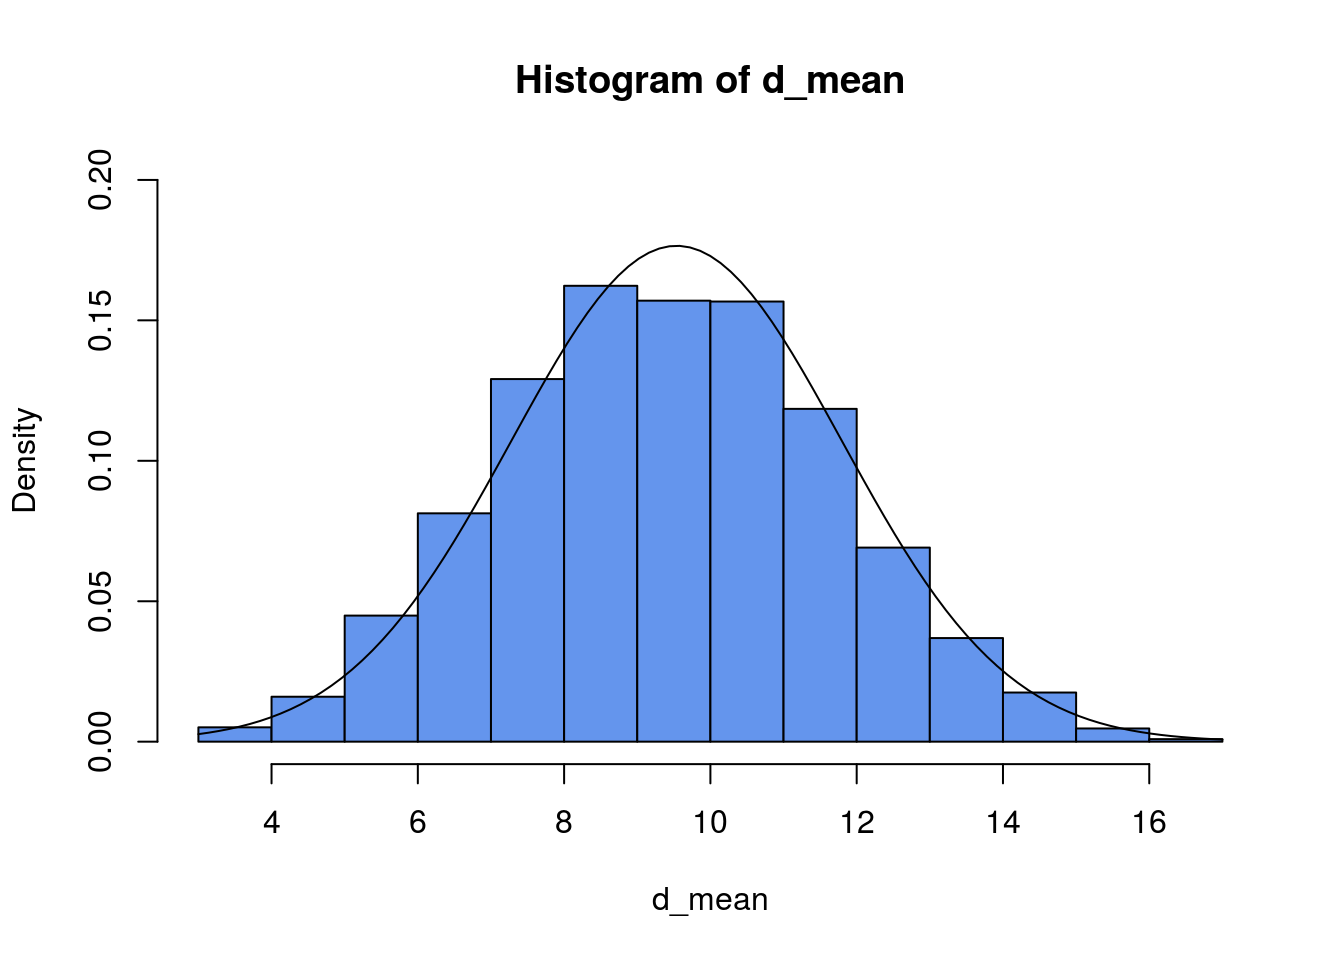
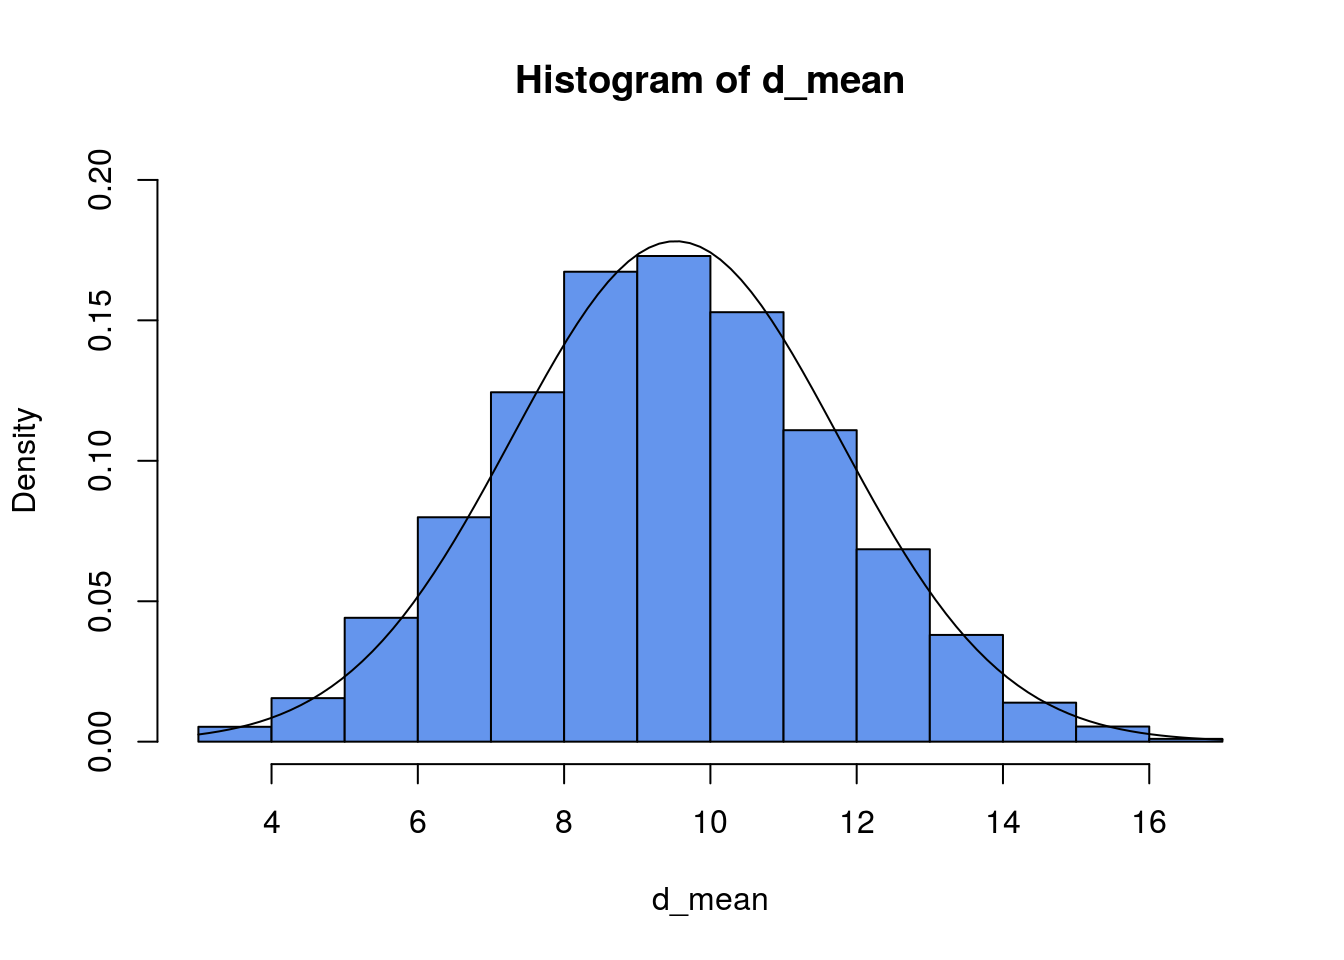
Go!

diff --git a/d_muestral.html b/d_muestral.html
@@ -334,16 +334,16 @@ for (i in 1:30){
   d_mean[i] &lt;- mean(sample(N,size = 4,replace = TRUE))
 }
 print(d_mean)</code></pre>
-<pre><code>##  [1]  6.50  9.25  5.25  5.75  6.25  9.00  8.25 11.00  6.00 13.00 13.50
-## [12]  7.00 11.00  8.50  7.25  5.75 11.00  9.25  9.50  9.75 13.75  9.75
-## [23]  6.00  8.00  6.75  6.50  9.50  9.75 11.75 12.00</code></pre>
+<pre><code>##  [1] 12.00  3.50  5.25  7.00  8.75 11.75 14.00  9.75  9.75 10.00 10.25
+## [12]  6.25 13.25  8.25  5.25 12.00  9.25 14.75 12.25 11.75 13.75 10.00
+## [23]  9.75 11.00  9.75 11.25  6.00 11.00  7.25 10.00</code></pre>
 </div>
 <div id="calculamos-las-medias-de-todas-esas-muestras-y-tratamos-de-ver-graficamente-mediante-un-histograma-al-menos-si-hay-acercamiento-a-normalidad." class="section level4">
 <h4>3) Calculamos las medias de todas esas muestras y tratamos de ver gráficamente mediante un histograma al menos si hay acercamiento a Normalidad.</h4>
 <pre class="r"><code>mean(d_mean)</code></pre>
-<pre><code>## [1] 8.883333</code></pre>
+<pre><code>## [1] 9.825</code></pre>
 <pre class="r"><code>sd(d_mean)</code></pre>
-<pre><code>## [1] 2.466791</code></pre>
+<pre><code>## [1] 2.78245</code></pre>
 <pre class="r"><code>hist(d_mean,col = &quot;cornflowerblue&quot;,freq = F,ylim = c(0,0.2))
 curve(dnorm(x,mean(d_mean),sd(d_mean)),add=TRUE)</code></pre>
 <p><img src="d_muestral_files/figure-html/unnamed-chunk-3-1.png" width="672" /></p>
@@ -354,14 +354,14 @@ curve(dnorm(x,mean(d_mean),sd(d_mean)),add=TRUE)</code></pre>
 <div id="notar-que-la-media-de-las-medias-muestrales-es" class="section level4">
 <h4>1. Notar que la media de las medias muestrales es</h4>
 </div>
-<div id="mu_barx-8.88." class="section level4">
-<h4><span class="math inline">\(\mu_{\bar{X}}=\)</span> 8.88.</h4>
+<div id="mu_barx-9.82." class="section level4">
+<h4><span class="math inline">\(\mu_{\bar{X}}=\)</span> 9.82.</h4>
 </div>
 <div id="este-resultado-esta-bien-cerca-de-la-media-poblacional-pues-mu9.55" class="section level4">
 <h4>Este resultado está bien cerca de la media poblacional, pues <span class="math inline">\(\mu=9.55\)</span></h4>
 </div>
-<div id="la-desviacion-estandar-de-la-media-muestral-es-2.47-mientras-que" class="section level4">
-<h4>2. La desviación estándar de la media muestral es 2.47, mientras que</h4>
+<div id="la-desviacion-estandar-de-la-media-muestral-es-2.78-mientras-que" class="section level4">
+<h4>2. La desviación estándar de la media muestral es 2.78, mientras que</h4>
 </div>
 <div id="sigma_barxdfracsigmasqrtndfrac4.77sqrt42.4-." class="section level4">
 <h4><span class="math inline">\(\sigma_{\bar{X}}=\dfrac{\sigma}{\sqrt{n}}=\dfrac{4.77}{\sqrt{4}}=2.4\)</span> .</h4>
@@ -384,14 +384,14 @@ curve(dnorm(x,mean(d_mean),sd(d_mean)),add=TRUE)</code></pre>
 <p><img src="d_muestral_files/figure-html/unnamed-chunk-4-1.png" width="672" /></p>
 <p>Ahora, con un mayor número de muestras tenemos que:</p>
 </div>
-<div id="mu_barx-9.54." class="section level4">
-<h4><span class="math inline">\(\mu_{\bar{X}}=\)</span> 9.54.</h4>
+<div id="mu_barx-9.52." class="section level4">
+<h4><span class="math inline">\(\mu_{\bar{X}}=\)</span> 9.52.</h4>
 </div>
 <div id="este-resultado-esta-bien-cerca-de-la-media-poblacional-pues-mu9.55-1" class="section level4">
 <h4>Este resultado está bien cerca de la media poblacional, pues <span class="math inline">\(\mu=9.55\)</span></h4>
 </div>
-<div id="la-desviacion-estandar-de-la-media-muestral-es-2.26-comparado-con-sigma_barx2.38" class="section level4">
-<h4>2. La desviación estándar de la media muestral es 2.26, comparado con <span class="math inline">\(\sigma_{\bar{X}}=2.38\)</span></h4>
+<div id="la-desviacion-estandar-de-la-media-muestral-es-2.24-comparado-con-sigma_barx2.38" class="section level4">
+<h4>2. La desviación estándar de la media muestral es 2.24, comparado con <span class="math inline">\(\sigma_{\bar{X}}=2.38\)</span></h4>
 </div>
 </div>
 <div id="aplicaciones" class="section level3">
@@ -434,32 +434,62 @@ curve(dnorm(x,mean(d_mean),sd(d_mean)),add=TRUE)</code></pre>
 </div>
 <div id="en-este-caso-como-n-geq-30-podemos-usar-el-tlc.-por-lo-tanto-la-distribucion-de-barx-es" class="section level4">
 <h4>En este caso como <span class="math inline">\(n \geq 30\)</span> podemos usar el TLC. Por lo tanto la distribución de <span class="math inline">\(\bar{X}\)</span> es</h4>
-<p><span class="math display">\[\bar{X} \sim Normal\bigg(10,\dfrac{5.7740}{\sqrt{30}}\bigg)\]</span></p>
+</div>
+<div id="barx-sim-normalbigg10dfrac5.7740sqrt30bigg" class="section level4">
+<h4><span class="math display">\[\bar{X} \sim Normal\bigg(10,\dfrac{5.7740}{\sqrt{30}}\bigg)\]</span></h4>
 <ol start="2" style="list-style-type: lower-alpha">
 <li><h4 id="cual-es-la-probabilidad-de-obtener-un-promedio-muestral-mayor-a-12.5">¿Cuál es la probabilidad de obtener un promedio muestral mayor a 12.5?</h4></li>
 </ol>
-<p><span class="math display">\[P(\bar{X} &gt; 12.5)= 1 - P(\bar{X} &lt; 12.5)=\]</span></p>
-<p><span class="math display">\[ 1 - P\Bigg(Z&lt; \dfrac{12.5-10}{\frac{5.7740}{\sqrt{30}}}\Bigg)=\]</span></p>
-<p><span class="math display">\[ 1 - P\bigg(Z &lt; \dfrac{2.5}{1.0541}\bigg)=\]</span></p>
-<p><span class="math display">\[ 1 - P(Z &lt; 2.3716)=\]</span></p>
-<p>Buscamos en <code>RStudio</code> la probabilidad <span class="math inline">\(P(Z &lt; 2.3716)\)</span></p>
-<pre class="r"><code>pnorm(2.3716)</code></pre>
-<pre><code>## [1] 0.9911444</code></pre>
-<p>Entonces,</p>
-<p><span class="math display">\[P(\bar{X} &gt; 12.5)= 1 - P(Z &lt; 2.3716)= 1 - 0.991144 = 0.008856\]</span></p>
+</div>
+<div id="pbarx-12.5-1---pbarx-12.5" class="section level4">
+<h4><span class="math display">\[P(\bar{X} &gt; 12.5)= 1 - P(\bar{X} &lt; 12.5)=\]</span></h4>
+</div>
+<div id="pbiggz-dfrac12.5-10frac5.7740sqrt30bigg" class="section level4">
+<h4><span class="math display">\[ 1 - P\Bigg(Z&lt; \dfrac{12.5-10}{\frac{5.7740}{\sqrt{30}}}\Bigg)=\]</span></h4>
+</div>
+<div id="pbiggz-dfrac2.51.0541bigg" class="section level4">
+<h4><span class="math display">\[ 1 - P\bigg(Z &lt; \dfrac{2.5}{1.0541}\bigg)=\]</span></h4>
+</div>
+<div id="pz-2.37" class="section level4">
+<h4><span class="math display">\[ 1 - P(Z &lt; 2.37)=\]</span></h4>
+</div>
+<div id="buscamos-en-rstudio-la-probabilidad-pz-2.37" class="section level4">
+<h4>Buscamos en <code>RStudio</code> la probabilidad <span class="math inline">\(P(Z &lt; 2.37)\)</span></h4>
+<pre class="r"><code>pnorm(2.37)</code></pre>
+<pre><code>## [1] 0.991106</code></pre>
+</div>
+<div id="entonces-1" class="section level4">
+<h4>Entonces,</h4>
+<p><span class="math display">\[P(\bar{X} &gt; 12.5)= 1 - P(Z &lt; 2.37)= 1 - 0.9911 = 0.0088\]</span></p>
 <ol start="3" style="list-style-type: lower-alpha">
 <li><h4 id="cual-es-la-probabilidad-de-encontrar-un-promedio-muestral-entre-8-y-15">¿Cuál es la probabilidad de encontrar un promedio muestral entre 8 y 15?</h4></li>
 </ol>
-<p>Solo basta encontrar</p>
-<p><span class="math display">\[P(8 &lt; \bar{X} &lt; 15)=P(\bar{X} &lt; 15) - P(\bar{X} &lt; 8)=\]</span></p>
-<p><span class="math display">\[P\Bigg(Z&lt; \dfrac{15-10}{\frac{5.7740}{\sqrt{30}}}\Bigg) - P\Bigg(Z&lt; \dfrac{8-10}{\frac{5.7740}{\sqrt{30}}}\Bigg)=\]</span></p>
-<p><span class="math display">\[P\bigg(Z&lt; \dfrac{5}{1.0541}\bigg) - P\bigg(Z&lt; \dfrac{-2}{1.0541}\bigg)=\]</span></p>
-<p><span class="math display">\[P\bigg(Z&lt; 4.74\bigg) - P\bigg(Z&lt; -1.89\bigg)=\]</span></p>
-<p>Ahora usamos <code>RStudio</code></p>
+</div>
+<div id="solo-es-encontrar" class="section level4">
+<h4>Solo es encontrar</h4>
+</div>
+<div id="p8-barx-15pbarx-15---pbarx-8" class="section level4">
+<h4><span class="math display">\[P(8 &lt; \bar{X} &lt; 15)=P(\bar{X} &lt; 15) - P(\bar{X} &lt; 8)=\]</span></h4>
+</div>
+<div id="pbiggz-dfrac15-10frac5.7740sqrt30bigg---pbiggz-dfrac8-10frac5.7740sqrt30bigg" class="section level4">
+<h4><span class="math display">\[P\Bigg(Z&lt; \dfrac{15-10}{\frac{5.7740}{\sqrt{30}}}\Bigg) - P\Bigg(Z&lt; \dfrac{8-10}{\frac{5.7740}{\sqrt{30}}}\Bigg)=\]</span></h4>
+</div>
+<div id="pbiggz-dfrac51.0541bigg---pbiggz-dfrac-21.0541bigg" class="section level4">
+<h4><span class="math display">\[P\bigg(Z&lt; \dfrac{5}{1.0541}\bigg) - P\bigg(Z&lt; \dfrac{-2}{1.0541}\bigg)=\]</span></h4>
+</div>
+<div id="pbiggz-4.74bigg---pbiggz--1.89bigg" class="section level4">
+<h4><span class="math display">\[P\bigg(Z&lt; 4.74\bigg) - P\bigg(Z&lt; -1.89\bigg)=\]</span></h4>
+</div>
+<div id="ahora-usamos-rstudio" class="section level4">
+<h4>Ahora usamos <code>RStudio</code></h4>
 <pre class="r"><code>pnorm(4.74) - pnorm(-1.89)</code></pre>
 <pre><code>## [1] 0.97062</code></pre>
-<p>Entonces,</p>
-<p><span class="math display">\[P(8 &lt; \bar{X} &lt; 15=0.9706\]</span></p>
+</div>
+<div id="entonces-2" class="section level4">
+<h4>Entonces,</h4>
+</div>
+<div id="p8-barx-150.9706" class="section level4">
+<h4><span class="math display">\[P(8 &lt; \bar{X} &lt; 15=0.9706\]</span></h4>
 <ol start="2" style="list-style-type: decimal">
 <li><h4 id="supongamos-que-el-ingreso-familiar-promedio-en-los-estados-unidos-es-de-51344-con-una-desviacion-estandar-de-15377.-cual-es-la-probabilidad-de-que-una-muestra-aleatoria-de-124-hogares-tenga-un-ingreso-familiar-promedio-de-mas-de-54000">Supongamos que el ingreso familiar promedio en los Estados Unidos es de <span class="math inline">\(\$51,344\)</span>, con una desviación estándar de <span class="math inline">\(\$15,377\)</span>. ¿Cuál es la probabilidad de que una muestra aleatoria de <span class="math inline">\(124\)</span> hogares tenga un ingreso familiar promedio de más de $ 54,000?</h4></li>
 </ol>
@@ -529,7 +559,7 @@ curve(dnorm(x,mean(d_mean),sd(d_mean)),add=TRUE)</code></pre>
 <div id="n1-p2001-0.40120-geq-10" class="section level4">
 <h4><span class="math inline">\(n(1-p)=200*(1-0.40)=120 \geq 10\)</span></h4>
 </div>
-<div id="entonces-1" class="section level4">
+<div id="entonces-3" class="section level4">
 <h4>Entonces,</h4>
 </div>
 <div id="sqrtdfracp1-pnsqrtdfrac0.401-0.402000.0346" class="section level4">
